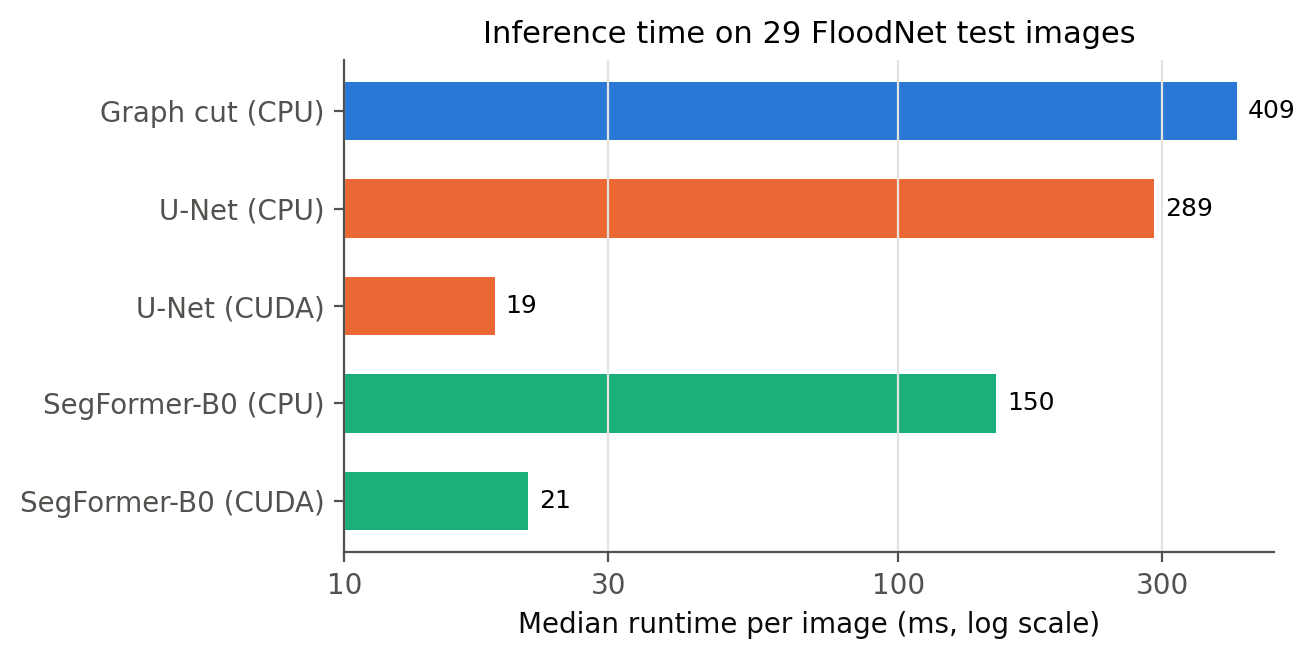
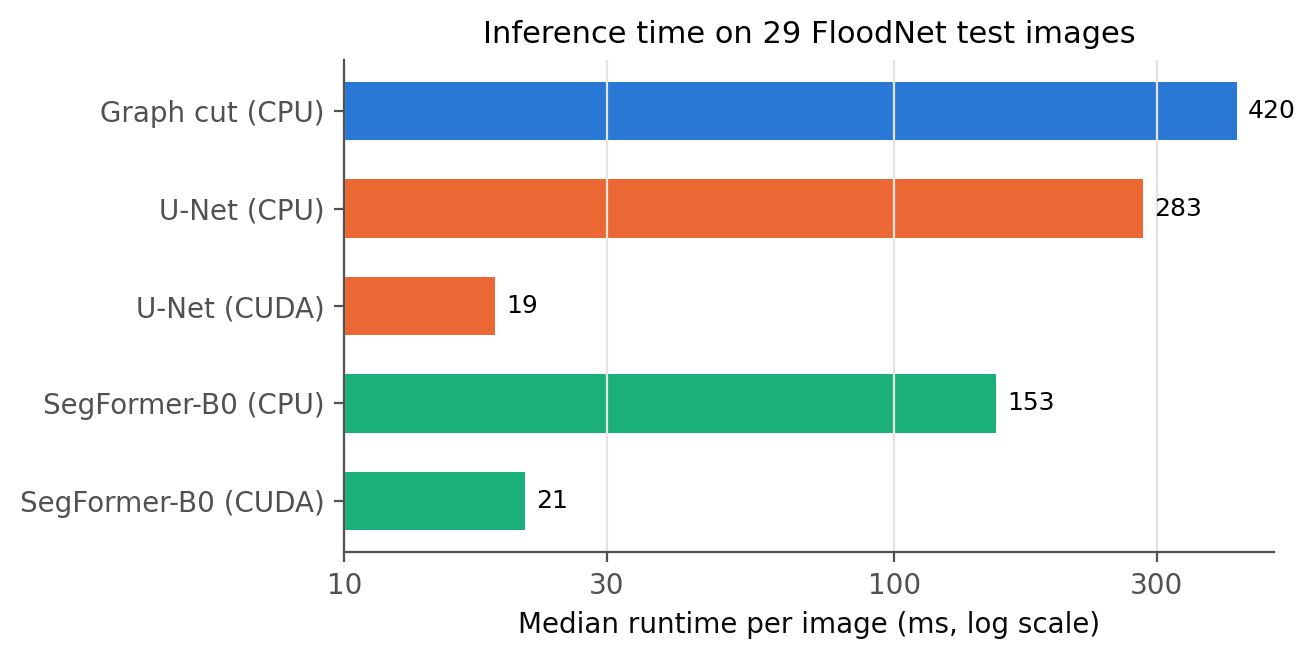
refresh efficiency timings from the notebook run

diff --git a/results/SUMMARY.md b/results/SUMMARY.md
@@ -25,11 +25,11 @@ Numbers only; generated by `scripts/run_experiments.py`.
 
 | method     | name         | device   |   runtime_ms_median |   runtime_ms_p90 |   params_m |   train_min |
 |:-----------|:-------------|:---------|--------------------:|-----------------:|-----------:|------------:|
-| classical  | Graph cut    | CPU      |              409.09 |           860.85 |       0    |        8.07 |
-| scratch    | U-Net        | CPU      |              289.43 |           295.55 |       7.76 |       26.83 |
-| scratch    | U-Net        | CUDA     |               18.68 |            19.36 |       7.76 |       26.83 |
-| pretrained | SegFormer-B0 | CPU      |              150.01 |           156.54 |       3.71 |       10.9  |
-| pretrained | SegFormer-B0 | CUDA     |               21.44 |            27.34 |       3.71 |       10.9  |
+| classical  | Graph cut    | CPU      |              419.57 |           860.56 |       0    |        8.07 |
+| scratch    | U-Net        | CPU      |              282.62 |           290.83 |       7.76 |       26.83 |
+| scratch    | U-Net        | CUDA     |               18.81 |            20.27 |       7.76 |       26.83 |
+| pretrained | SegFormer-B0 | CPU      |              152.81 |           159.3  |       3.71 |       10.9  |
+| pretrained | SegFormer-B0 | CUDA     |               21.32 |            23.96 |       3.71 |       10.9  |
 
 ## 4. Out-of-domain (Kaggle Flood Area)
 
